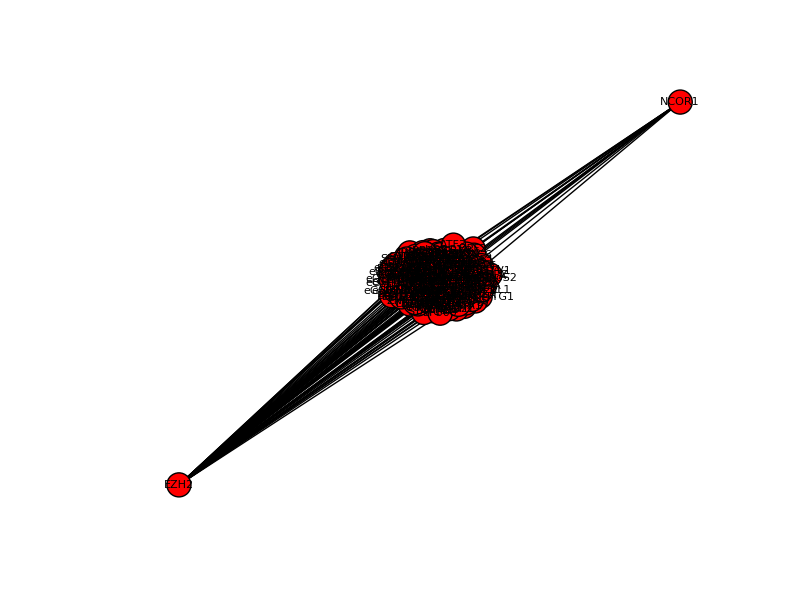
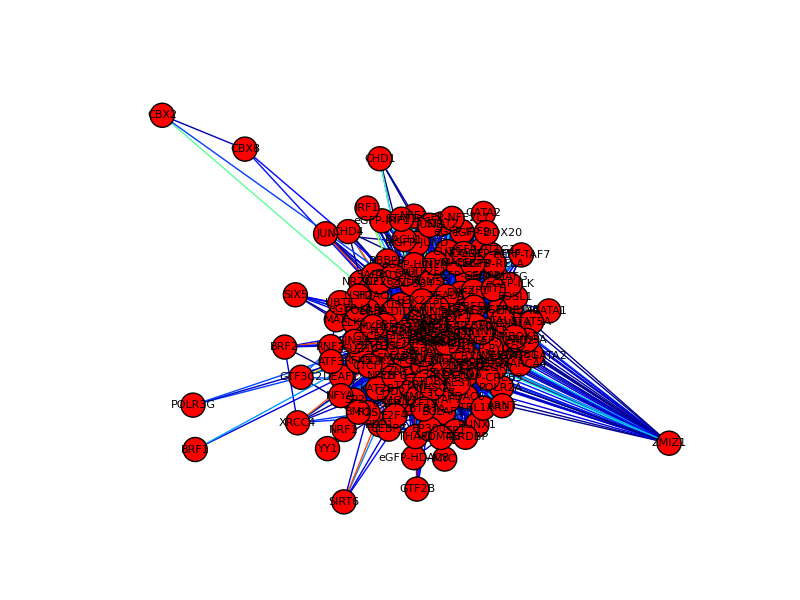
updates

diff --git a/src/analyze_SVM.py b/src/analyze_SVM.py
@@ -12,7 +12,6 @@ def run(files,figures):
     for file1 in os.listdir(files):
         TFs = list()
         hist = list()
-        print file1
         pos = 0
         neg = 0
         with open(files + file1) as F:
@@ -37,7 +36,7 @@ def run(files,figures):
             TFs.append((names[i],S))
         hist = [x[1] for x in TFs]
         TFs.sort(key=lambda x: x[1], reverse=True)
-        
+        print file1, len(TFs)
         outfile.write(file1.split('.')[0] + '\t')
         for item in TFs:
             outfile.write(item[0] + "," + str(item[1]) + ",")

diff --git a/src/main.py b/src/main.py
@@ -64,7 +64,7 @@ def run():
     #intersect_replicates.run(TF,temp)
     #print "done\nCreating SVM files..."
     #create_SVM_files.run(temp,files,bidirectional)
-    #print "done\nAnalyzing SVs..."
-    #analyze_SVM.run(files,figures)
+    print "done\nAnalyzing SVs..."
+    analyze_SVM.run(files,figures)
     print "done\nCreating Network..."
     create_network.run(figures)

diff --git a/src/create_network.py b/src/create_network.py
@@ -26,8 +26,6 @@ def run(figures):
     #elarge=[(u,v) for (u,v,d) in G.edges(data=True) if d['weight'] >0.6]       
     
     pos=nx.spring_layout(G)
-    #pos = nx.spring_layout(G, iterations=50)
-    #pos = nx.random_layout(G)
     plt.figure()
     plt.subplot(111)
     plt.axis('off')
